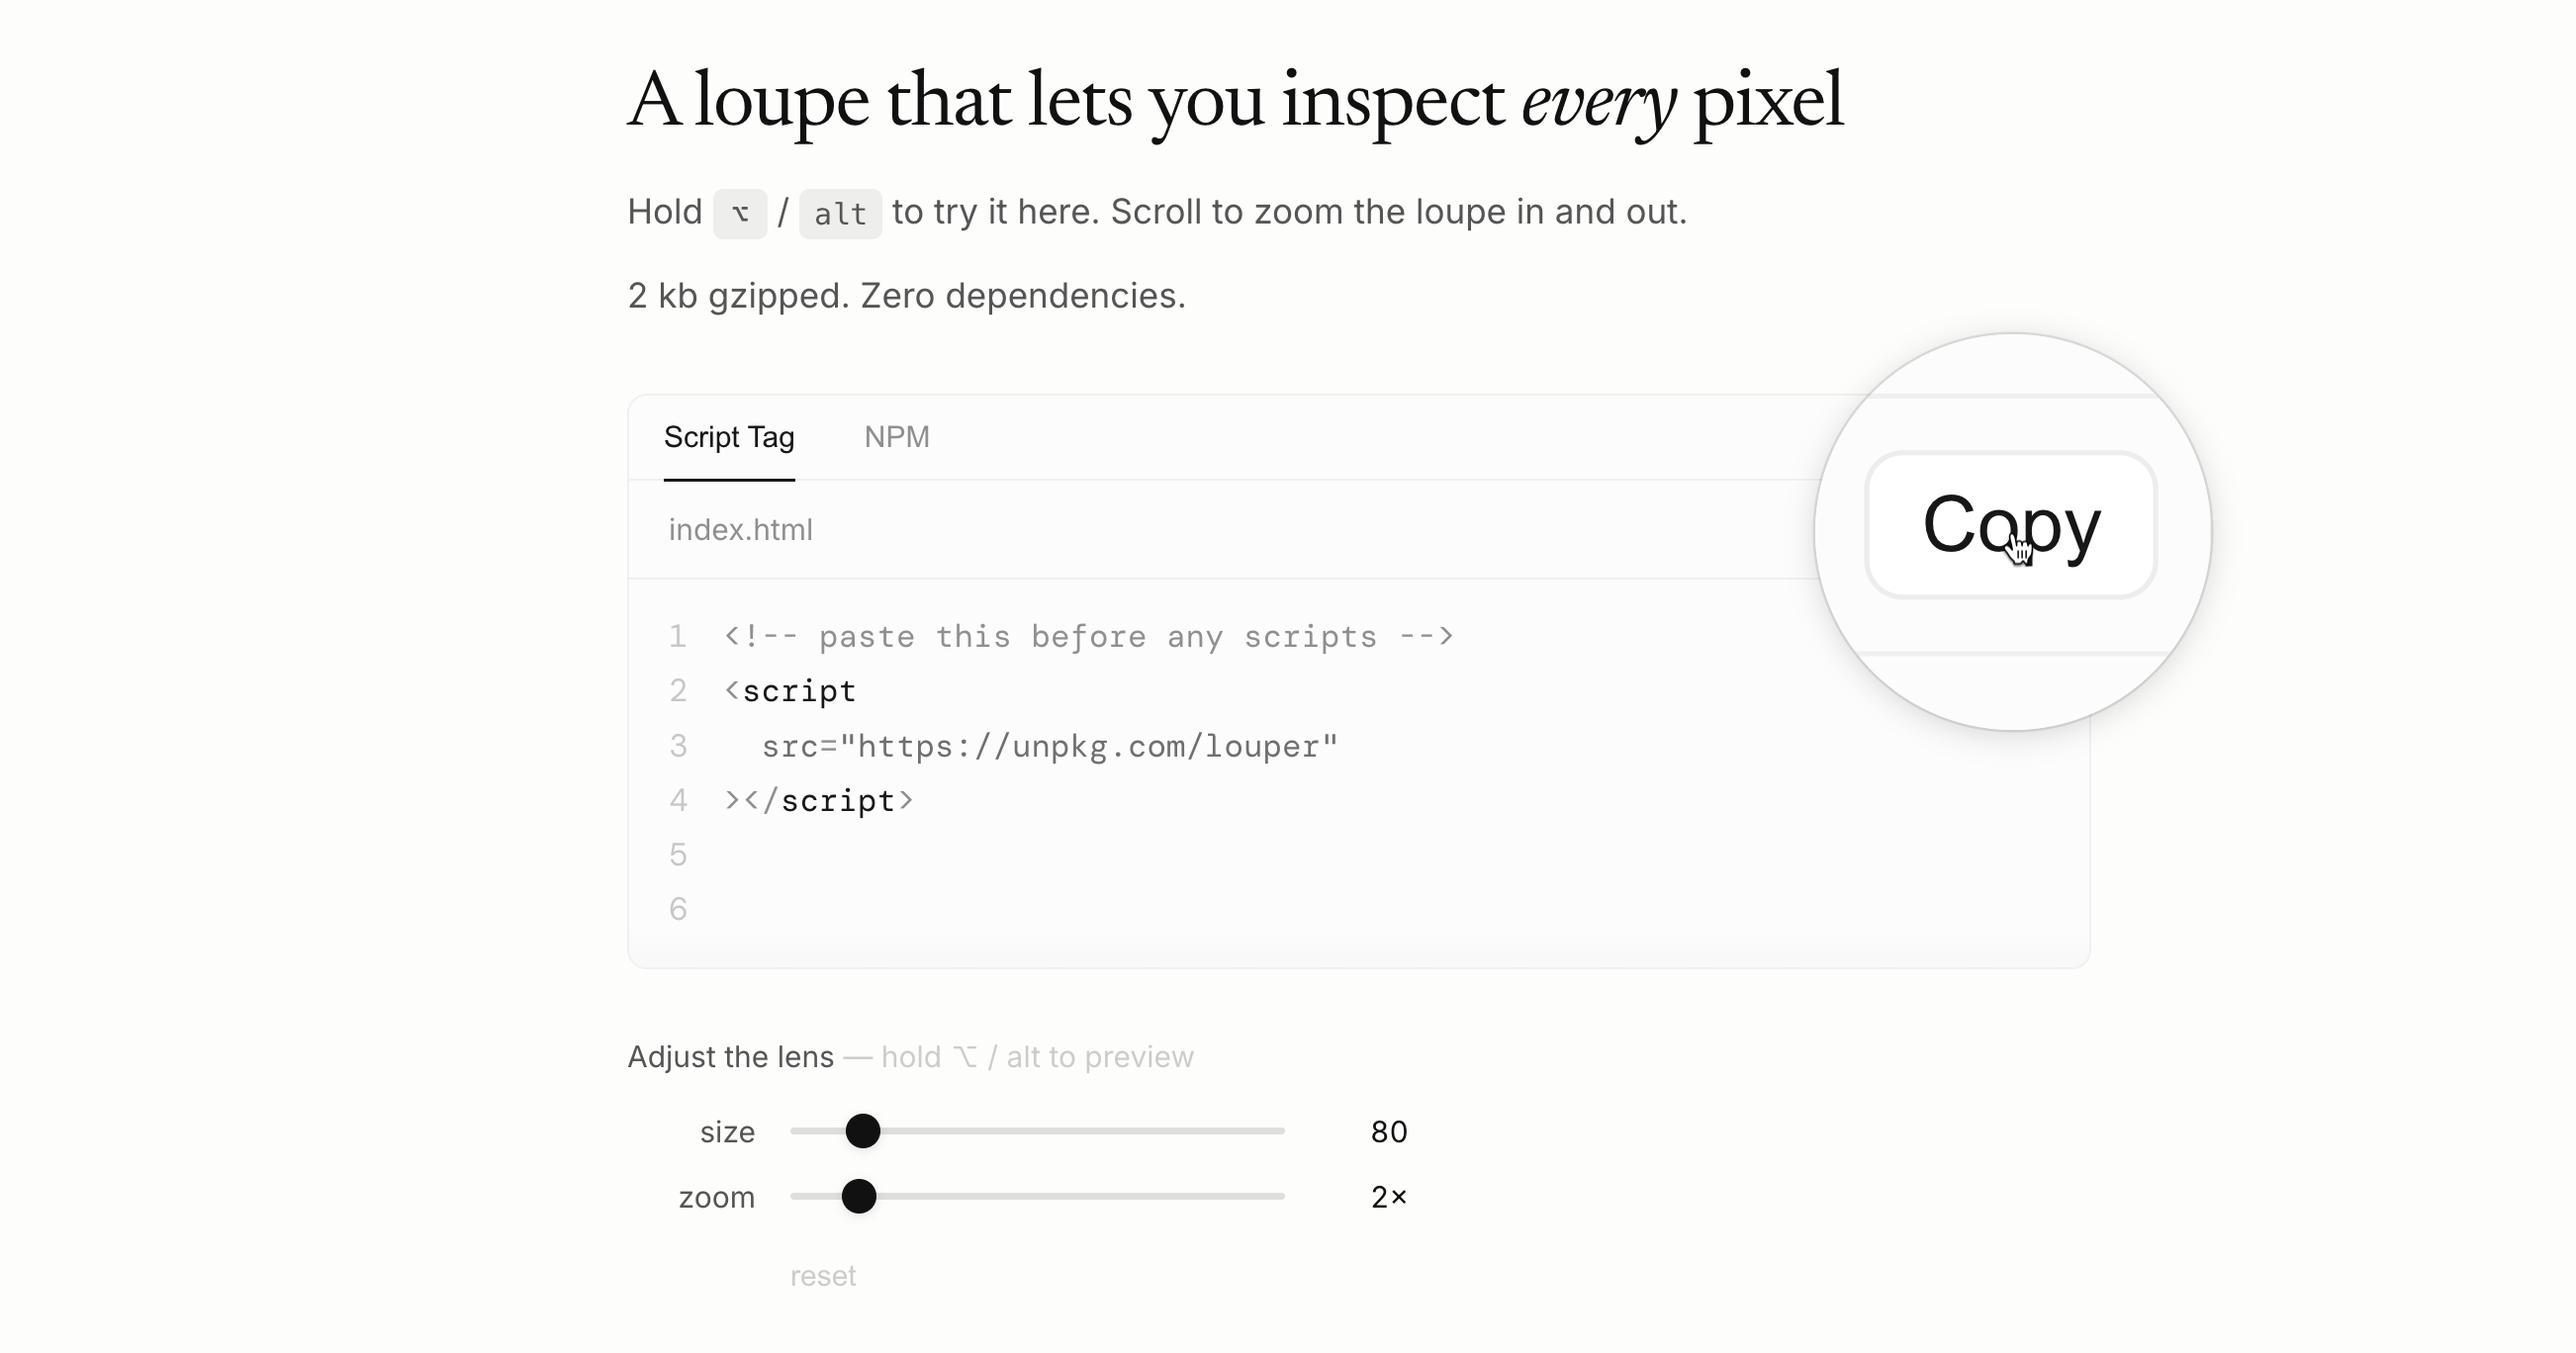
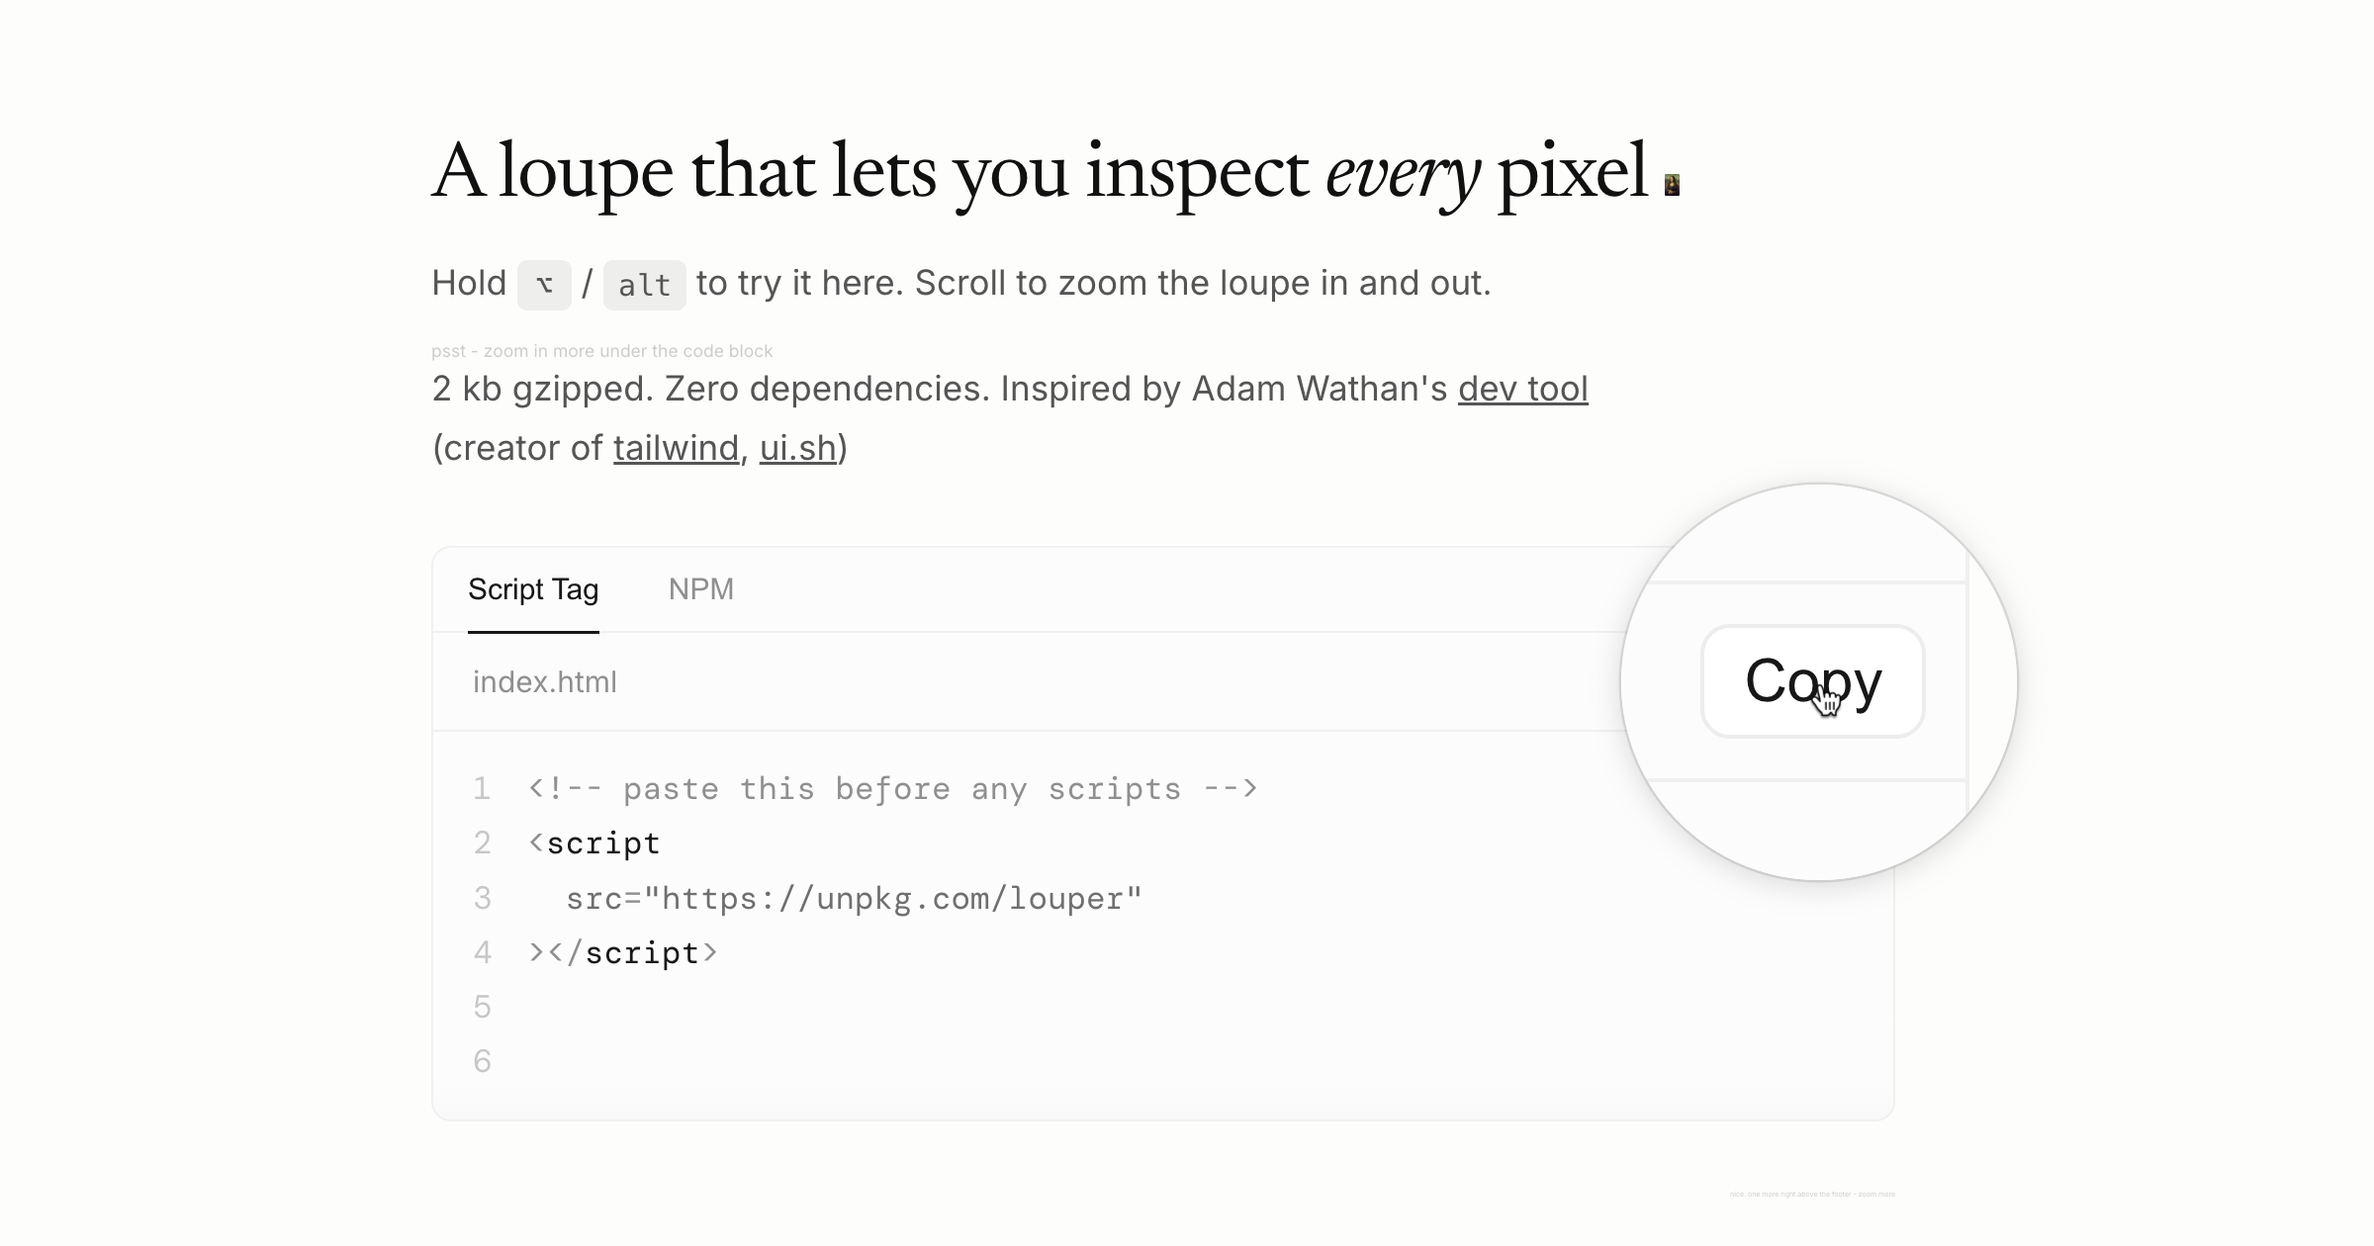
Add easter eggs, Mona Lisa, and Adam Wathan credit

diff --git a/examples/vanilla/index.html b/examples/vanilla/index.html
@@ -374,7 +374,7 @@
   <div class="page">
     <!-- Hero -->
     <section class="hero">
-      <h1>A loupe that lets you inspect <em>every</em> pixel</h1>
+      <h1>A loupe that lets you inspect <em>every</em> pixel <img src="mona-lisa.jpg" alt="" style="width:6px;height:auto;border-radius:0.5px;vertical-align:baseline"></h1>
       <p>Hold <kbd>&#8997;</kbd> / <kbd>alt</kbd> to try it here. Scroll to zoom the loupe in and out.</p>
     </section>
 
@@ -382,7 +382,7 @@
 
     <!-- Usage -->
     <section class="description">
-      <p>2 kb gzipped. Zero dependencies.</p>
+      <p>2 kb gzipped. Zero dependencies. Inspired by Adam Wathan's <a href="https://x.com/adamwathan/status/2019826659159937318" target="_blank" rel="noopener" style="color:var(--ink-muted)">dev tool</a> (creator of <a href="https://tailwindcss.com" target="_blank" rel="noopener" style="color:var(--ink-muted)">tailwind</a>, <a href="https://ui.sh" target="_blank" rel="noopener" style="color:var(--ink-muted)">ui.sh</a>)</p>
     </section>
 
     <!-- Code -->
